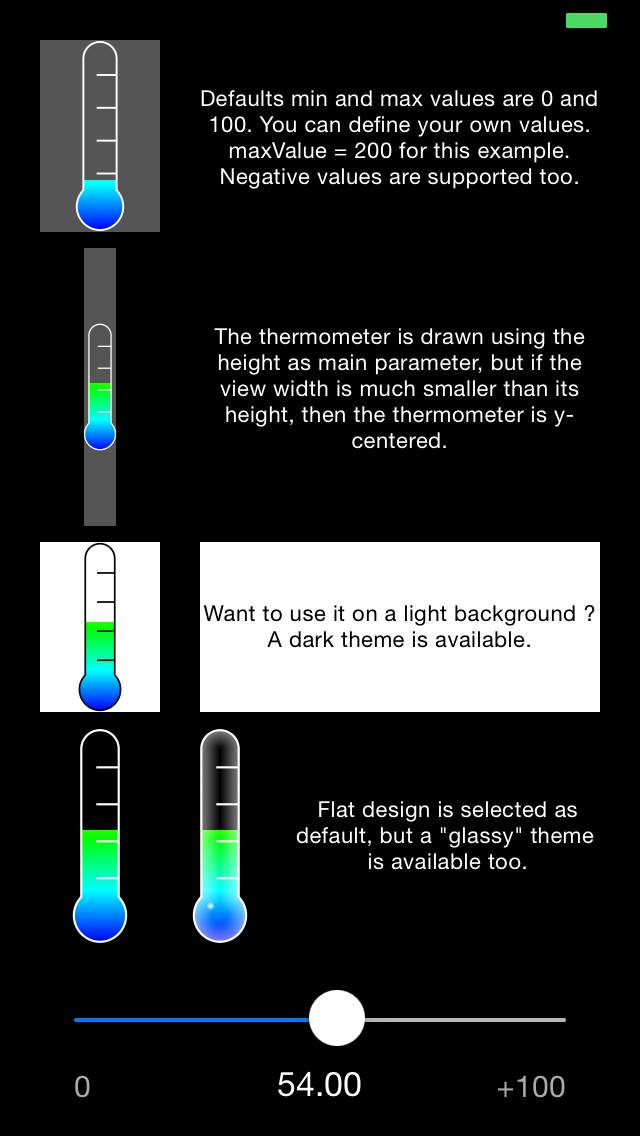
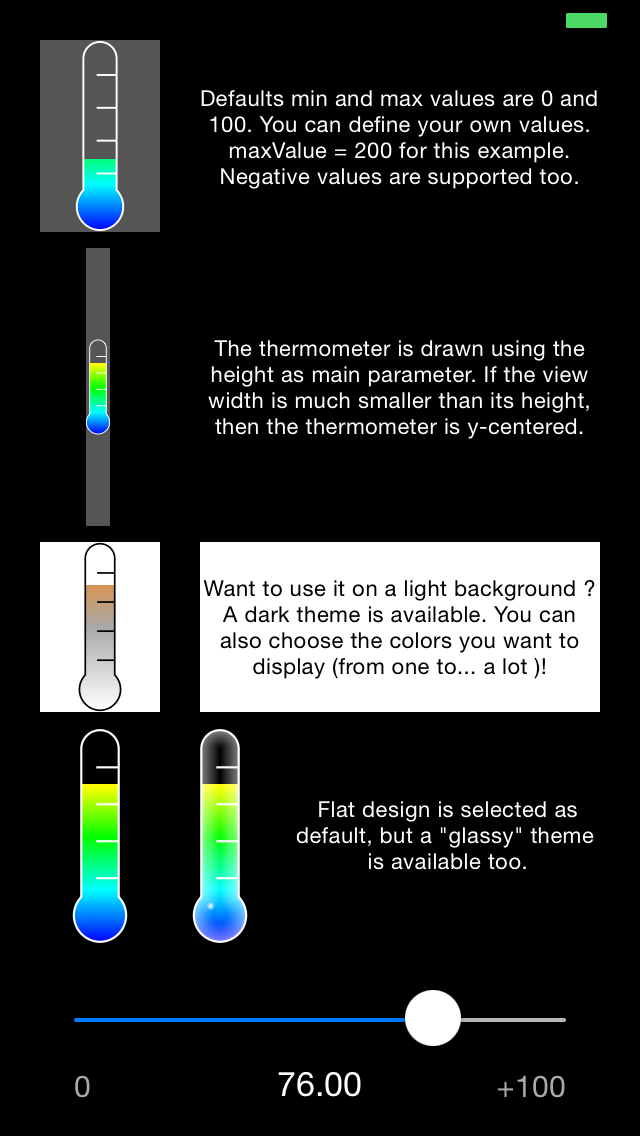
[UPD] Add color support

diff --git a/Classes/MAThermometer.m b/Classes/MAThermometer.m
@@ -8,24 +8,15 @@
 #import "MAThermometer.h"
 #import "MAThermometerBorder.h"
 
-static const CGFloat colorsBlueToRed[] =  {
-    0.0, 0.0, 1.0, 1.0,     // Blue
-	0.0, 1.0, 1.0, 1.0,     // Cyan
-    0.0, 1.0, 0.0, 1.0,     // Green
-	1.0, 1.0, 0.0, 1.0,     // Yellow
-	1.0, 0.0, 0.0, 1.0      // Red
-};
-
-@interface MAThermometer () {
-
-    CGPoint pointTemp[5];
+@interface MAThermometer ()
+{
     CGFloat customGradientValues[8];
+    CGFloat * colorsValue;
 }
 
 @property (nonatomic, assign) CGFloat span;
 @property (nonatomic, assign) CGFloat height;
 @property (nonatomic, assign) CGFloat yOffset;
-
 
 @property (nonatomic, assign) CGFloat lineWidth;
 
@@ -44,10 +35,9 @@ static const CGFloat colorsBlueToRed[] =  {
 @property (nonatomic, assign) CGPoint upperCircleSecond;
 
 @property (nonatomic, strong) MAThermometerBorder * thermometerBorder;
-
+@property (nonatomic, strong) NSMutableArray * arrayPoints;
 
 @end
-
 
 @implementation MAThermometer
 
@@ -84,13 +74,13 @@ static const CGFloat colorsBlueToRed[] =  {
 
 -(void)customInit
 {
-    _curValue               = 0;
-    _yOffset                = 0;
-    
-    _height = CGRectGetHeight(self.bounds);
-    
     _thermometerBorder = [[MAThermometerBorder alloc] initWithFrame:self.bounds];
     [self addSubview:_thermometerBorder];
+    
+    _curValue               = 0;
+    _yOffset                = 0;
+    _height                 = CGRectGetHeight(self.bounds);
+    _arrayPoints            = [[NSMutableArray alloc] init];
     
     CGFloat width = CGRectGetWidth(self.bounds);
     
@@ -99,16 +89,7 @@ static const CGFloat colorsBlueToRed[] =  {
         _yOffset = (CGRectGetHeight(self.bounds) - _height)/2;
     }
     
-    
-    [self setMinValue:0 maxValue:100];
-    customGradientValues[3] = 1;
-    customGradientValues[7] = 1;
-        
-    // We compute all the points in order to save some time on drawRect method
-    
     _lineWidth              = _height/100.f;
-    
-    
     _lowerCircleRadius      = (_height -2*_lineWidth)/8;
     _lowerCircleCenter      = CGPointMake(CGRectGetMidX(self.bounds), _height - (_lowerCircleRadius + _lineWidth) + _yOffset);
     _lowerCircleFirst       = CGPointMake((_lowerCircleCenter.x - cos(M_PI_4) * _lowerCircleRadius),
@@ -125,12 +106,20 @@ static const CGFloat colorsBlueToRed[] =  {
     _upperCircleMiddle      = CGPointMake(_upperCircleCenter.x,_upperCircleCenter.y - _upperCircleRadius);
     _upperCircleSecond      = CGPointMake(_lowerCircleSecond.x, _upperCircleCenter.y);
     
-
+    
+    [self setArrayColors:@[[UIColor blueColor],
+                           [UIColor cyanColor],
+                           [UIColor greenColor],
+                           [UIColor yellowColor],
+                           [UIColor redColor]]];
+    [self setMinValue:0 maxValue:100];
+        
+    // We compute all the points in order to save some time on drawRect method
+    
     self.backgroundColor = [UIColor clearColor];
 }
 
 #pragma mark - Custom setters
-
 
 -(void)setCurValue:(CGFloat)curValue
 {
@@ -180,6 +169,46 @@ static const CGFloat colorsBlueToRed[] =  {
     [_thermometerBorder setGlassEffect:glassEffect];
 }
 
+-(void)setArrayColors:(NSArray *)array
+{
+   if (array == nil || [array count] == 0)
+        return ;
+    
+    _arrayColors = array;
+    
+    // If we set only one color, no need to precompute the gradients variables
+    if ([_arrayColors count] ==1)
+    {
+        return;
+       
+    }
+    
+    
+    if (colorsValue != nil)
+        free(colorsValue);
+    
+    colorsValue = malloc(4* [array count] * sizeof(CGFloat));
+    
+    [_arrayColors enumerateObjectsUsingBlock:^(UIColor * color, NSUInteger idx, BOOL *stop) {
+        
+        [color getRed:&(colorsValue[4*idx])
+                green:&(colorsValue[4*idx +1])
+                 blue:&(colorsValue[4*idx +2])
+                alpha:&(colorsValue[4*idx +3])];
+    }];
+    
+    [_arrayPoints removeAllObjects];
+    
+    NSInteger heightAvailable = _upperCircleMiddle.y - _lowerCircleMiddle.y;
+    CGPoint pointTemp;
+    for (uint8_t i = 0; i < [_arrayColors count] ; ++i)
+    {
+        pointTemp = CGPointMake(CGRectGetMidX(self.bounds), _lowerCircleMiddle.y + (i*heightAvailable)/((NSInteger)([_arrayColors count]-1)));
+        [_arrayPoints addObject:[NSValue valueWithCGPoint:pointTemp]];
+    }
+    [self setNeedsDisplay];
+}
+
 #pragma mark - Custom getters
 
 -(BOOL)darkTheme
@@ -219,92 +248,88 @@ static const CGFloat colorsBlueToRed[] =  {
     CGContextSaveGState(context);
     CGContextClip(context);
 
-
-        // on calcule en fonction du pourcentage
+    NSInteger index = 0;
+    CGFloat valueMin = _minValue;
+    CGFloat valueMax = 0;
     
-    
-    CGContextSetFillColorWithColor(context,[[UIColor blueColor] CGColor]);
-    
-    NSInteger height = _upperCircleMiddle.y - _lowerCircleMiddle.y;
-    
-    for (uint8_t i = 0; i < 5 ; ++i)
+    if ([_arrayColors count] == 1)
     {
-        pointTemp[i] = CGPointMake(CGRectGetMidX(self.bounds), _lowerCircleMiddle.y + (i*height)/4);
+        CGContextSetFillColorWithColor(context, ((UIColor *)_arrayColors[0]).CGColor);
+        
+        CGFloat originY = _lowerCircleMiddle.y - (_lowerCircleMiddle.y -_upperCircleMiddle.y)*(_curValue-_minValue)/_span;
+        
+        CGContextAddRect(context, CGRectMake(CGRectGetMinX(self.bounds),
+                                             originY,
+                                             CGRectGetWidth(self.bounds),
+                                             _lowerCircleMiddle.y - originY));
+        
+        CGContextFillPath(context);
+        
+        return;
     }
     
     
-    if (_curValue > _minValue)
+    while (_curValue > valueMin)
     {
-        if (_curValue > _minValue + 0.25f*_span)
+        valueMax = (index+1)/((CGFloat)([_arrayColors count]-1))*_span;
+        
+        if (_curValue > _minValue + valueMax)
         {
-            [self drawFullGradientNum:0 withBaseSpace:baseSpace inContext:context];
-            
-            if (_curValue > _minValue + 0.5f*_span)
-            {
-               [self drawFullGradientNum:1 withBaseSpace:baseSpace inContext:context];
-                
-                if (_curValue > _minValue + 0.75f*_span)
-                {
-                    [self drawFullGradientNum:2 withBaseSpace:baseSpace inContext:context];
-                    
-                    if (_curValue == _maxValue)
-                    {
-                        [self drawFullGradientNum:3 withBaseSpace:baseSpace inContext:context];
-                    }
-                    else
-                    {
-                        [self drawIntermediateGradientNum:3 withBaseSpace:baseSpace inContext:context];
-                    }
-                }
-                else
-                {
-                    [self drawIntermediateGradientNum:2 withBaseSpace:baseSpace inContext:context];
-                }
-            }
-            else
-            {
-                [self drawIntermediateGradientNum:1 withBaseSpace:baseSpace inContext:context];
-            }
+            [self drawFullGradientNum:index withBaseSpace:baseSpace inContext:context];
         }
         else
         {
-            [self drawIntermediateGradientNum:0 withBaseSpace:baseSpace inContext:context];
+            [self drawIntermediateGradientNum:index withBaseSpace:baseSpace inContext:context];
         }
+        valueMin = valueMax;
+        index ++;
     }
     
     CGContextRestoreGState(context);
+    CGColorSpaceRelease(baseSpace), baseSpace = NULL;
 }
 
 
--(void)drawFullGradientNum:(uint8_t)numGradient withBaseSpace:(CGColorSpaceRef) baseSpace inContext:(CGContextRef) context
+-(void)drawFullGradientNum:(uint8_t)numGrad withBaseSpace:(CGColorSpaceRef) baseSpace inContext:(CGContextRef) context
 {
-    CGGradientRef gradient = CGGradientCreateWithColorComponents(baseSpace, colorsBlueToRed + numGradient*4, NULL, 2);
-    CGContextDrawLinearGradient(context, gradient, pointTemp[numGradient], pointTemp[numGradient+1], 0);
+    CGGradientRef gradient = CGGradientCreateWithColorComponents(baseSpace, colorsValue + numGrad*4, NULL, 2);
+    CGContextDrawLinearGradient(context, gradient,  [_arrayPoints[numGrad] CGPointValue],  [_arrayPoints[numGrad+1] CGPointValue], 0);
     CGGradientRelease(gradient), gradient = NULL;
 }
 
--(void)drawIntermediateGradientNum:(uint8_t)numGradient withBaseSpace:(CGColorSpaceRef) baseSpace inContext:(CGContextRef) context
+-(void)drawIntermediateGradientNum:(uint8_t)numGrad withBaseSpace:(CGColorSpaceRef) baseSpace inContext:(CGContextRef) context
 {
     CGFloat percent = (_curValue - _minValue)/(_maxValue - _minValue);
-    CGFloat percentGradient = 4 * percent - numGradient;
+    CGFloat percentGradient = ([_arrayColors count] -1) * percent - numGrad;
+ 
+    CGFloat rValue = percentGradient * colorsValue[((numGrad+1)*4)] + (1.f-percentGradient) * colorsValue[(numGrad *4)];
+    CGFloat gValue = percentGradient * colorsValue[((numGrad+1)*4) +1] + (1.f-percentGradient) * colorsValue[(numGrad *4) +1];
+    CGFloat bValue = percentGradient * colorsValue[((numGrad+1)*4) +2] + (1.f-percentGradient) * colorsValue[(numGrad *4) +2];
+    CGFloat aValue = percentGradient * colorsValue[((numGrad+1)*4) +3] + (1.f-percentGradient) * colorsValue[(numGrad *4) +3];
     
-    CGFloat rValue = percentGradient * colorsBlueToRed[((numGradient+1)*4)] + (1.f-percentGradient) * colorsBlueToRed[(numGradient *4)];
-    CGFloat gValue = percentGradient * colorsBlueToRed[((numGradient+1)*4) +1] + (1.f-percentGradient) * colorsBlueToRed[(numGradient *4) +1];
-    CGFloat bValue = percentGradient * colorsBlueToRed[((numGradient+1)*4) +2] + (1.f-percentGradient) * colorsBlueToRed[(numGradient *4) +2];
-    
-    customGradientValues[0]     = colorsBlueToRed[numGradient *4];
-    customGradientValues[1]     = colorsBlueToRed[(numGradient *4) +1];
-    customGradientValues[2]     = colorsBlueToRed[(numGradient *4) +2];
+    customGradientValues[0]     = colorsValue[numGrad *4];
+    customGradientValues[1]     = colorsValue[(numGrad *4) +1];
+    customGradientValues[2]     = colorsValue[(numGrad *4) +2];
+    customGradientValues[3]     = colorsValue[(numGrad *4) +3];
     customGradientValues[4]     = rValue;
     customGradientValues[5]     = gValue;
     customGradientValues[6]     = bValue;
+    customGradientValues[7]     = aValue;
     
-    CGPoint sommet = CGPointMake(pointTemp[numGradient].x, pointTemp[numGradient].y + (pointTemp[numGradient +1].y - pointTemp[numGradient].y)*percentGradient);
+    CGPoint sommet = CGPointMake([_arrayPoints[numGrad] CGPointValue].x,
+                                 [_arrayPoints[numGrad] CGPointValue].y + ([_arrayPoints[numGrad+1] CGPointValue].y - [_arrayPoints[numGrad] CGPointValue].y)*percentGradient);
     
     CGGradientRef gradient = CGGradientCreateWithColorComponents(baseSpace, customGradientValues, NULL, 2);
-    CGContextDrawLinearGradient(context, gradient, pointTemp[numGradient], sommet, 0);
+    CGContextDrawLinearGradient(context, gradient,  [_arrayPoints[numGrad] CGPointValue], sommet, 0);
     CGGradientRelease(gradient), gradient = NULL;
 }
 
+#pragma mark - Memory management
+
+-(void)dealloc
+{
+    if (colorsValue != nil)
+    free(colorsValue);
+}
 
 @end

diff --git a/MAThermometer-Demo/MAThermometer-Demo/MAViewController.m b/MAThermometer-Demo/MAThermometer-Demo/MAViewController.m
@@ -34,18 +34,20 @@
 	// Do any additional setup after loading the view, typically from a nib.
     
     _thermometer1 = [[MAThermometer alloc] initWithFrame:_viewForThermometer1.bounds];
-    _thermometer1.maxValue = 200;
+    [_thermometer1 setMaxValue:200];
     
     _thermometer2 = [[MAThermometer alloc] initWithFrame:_viewForThermometer2.bounds];
-    _thermometer2.darkTheme = YES;
     
     _thermometer3 = [[MAThermometer alloc] initWithFrame:_viewForThermometer3.bounds];
+    [_thermometer3 setDarkTheme:YES];
+    [_thermometer3 setArrayColors:@[[UIColor whiteColor], [UIColor lightGrayColor], [UIColor orangeColor]]];
     
     [_thermometerWithShadow setGlassEffect:YES];
 
     [_viewForThermometer1 addSubview:_thermometer1];
     [_viewForThermometer2 addSubview:_thermometer2];
     [_viewForThermometer3 addSubview:_thermometer3];
+    
     
     [_labelSlider setText:[NSString stringWithFormat:@"%.2f", _slider.value]];
     
@@ -58,7 +60,6 @@
     _thermometer3.curValue = self.slider.value;
     _thermometerWithoutShadow.curValue = self.slider.value;
     _thermometerWithShadow.curValue = self.slider.value;
-    
 }
 
 - (void)didReceiveMemoryWarning

diff --git a/MAThermometer-Demo/MAThermometer-Demo/MAViewController.h b/MAThermometer-Demo/MAThermometer-Demo/MAViewController.h
@@ -6,6 +6,10 @@
 //
 //
 
+#define RGBCOLOR(r,g,b) [UIColor colorWithRed:(r)/255.0f green:(g)/255.0f blue:(b)/255.0f alpha:1]
+#define RGBACOLOR(r,g,b,a) [UIColor colorWithRed:(r)/255.0f green:(g)/255.0f blue:(b)/255.0f alpha:(a)]
+
+
 #import <UIKit/UIKit.h>
 
 @interface MAViewController : UIViewController

diff --git a/Classes/MAThermometer.h b/Classes/MAThermometer.h
@@ -16,4 +16,6 @@
 @property (nonatomic, assign) BOOL darkTheme;
 @property (nonatomic, assign) BOOL glassEffect;
 
+@property (nonatomic, strong) NSArray * arrayColors;
+
 @end

diff --git a/README.md b/README.md
@@ -9,6 +9,7 @@ MAThermometer is a custom progress bar with a thermometer look. You can use it a
 **How to use it :** 
 Import MAThermometer and MAThermometerBorder class within your project. You have to create only MAThermometer instances. MAThermometer is a UIView subclass, so you can use it from interface builder or programmatically with the `initWithFrame` method. 
 You can then customize the Thermometer using the following properties : curValue, minValue, maxValue, darkTheme and glassEffect.
+You can also choose the colors to display with the arrayColors property.
 
 **Compatibility:** 
 MAThermometer use CGContext methods and should be available on iOS2+ devices. It has been tested on iPhone 3GS under iOS 6.1.6 and iPhone 5S under iOS 7.1.1.
